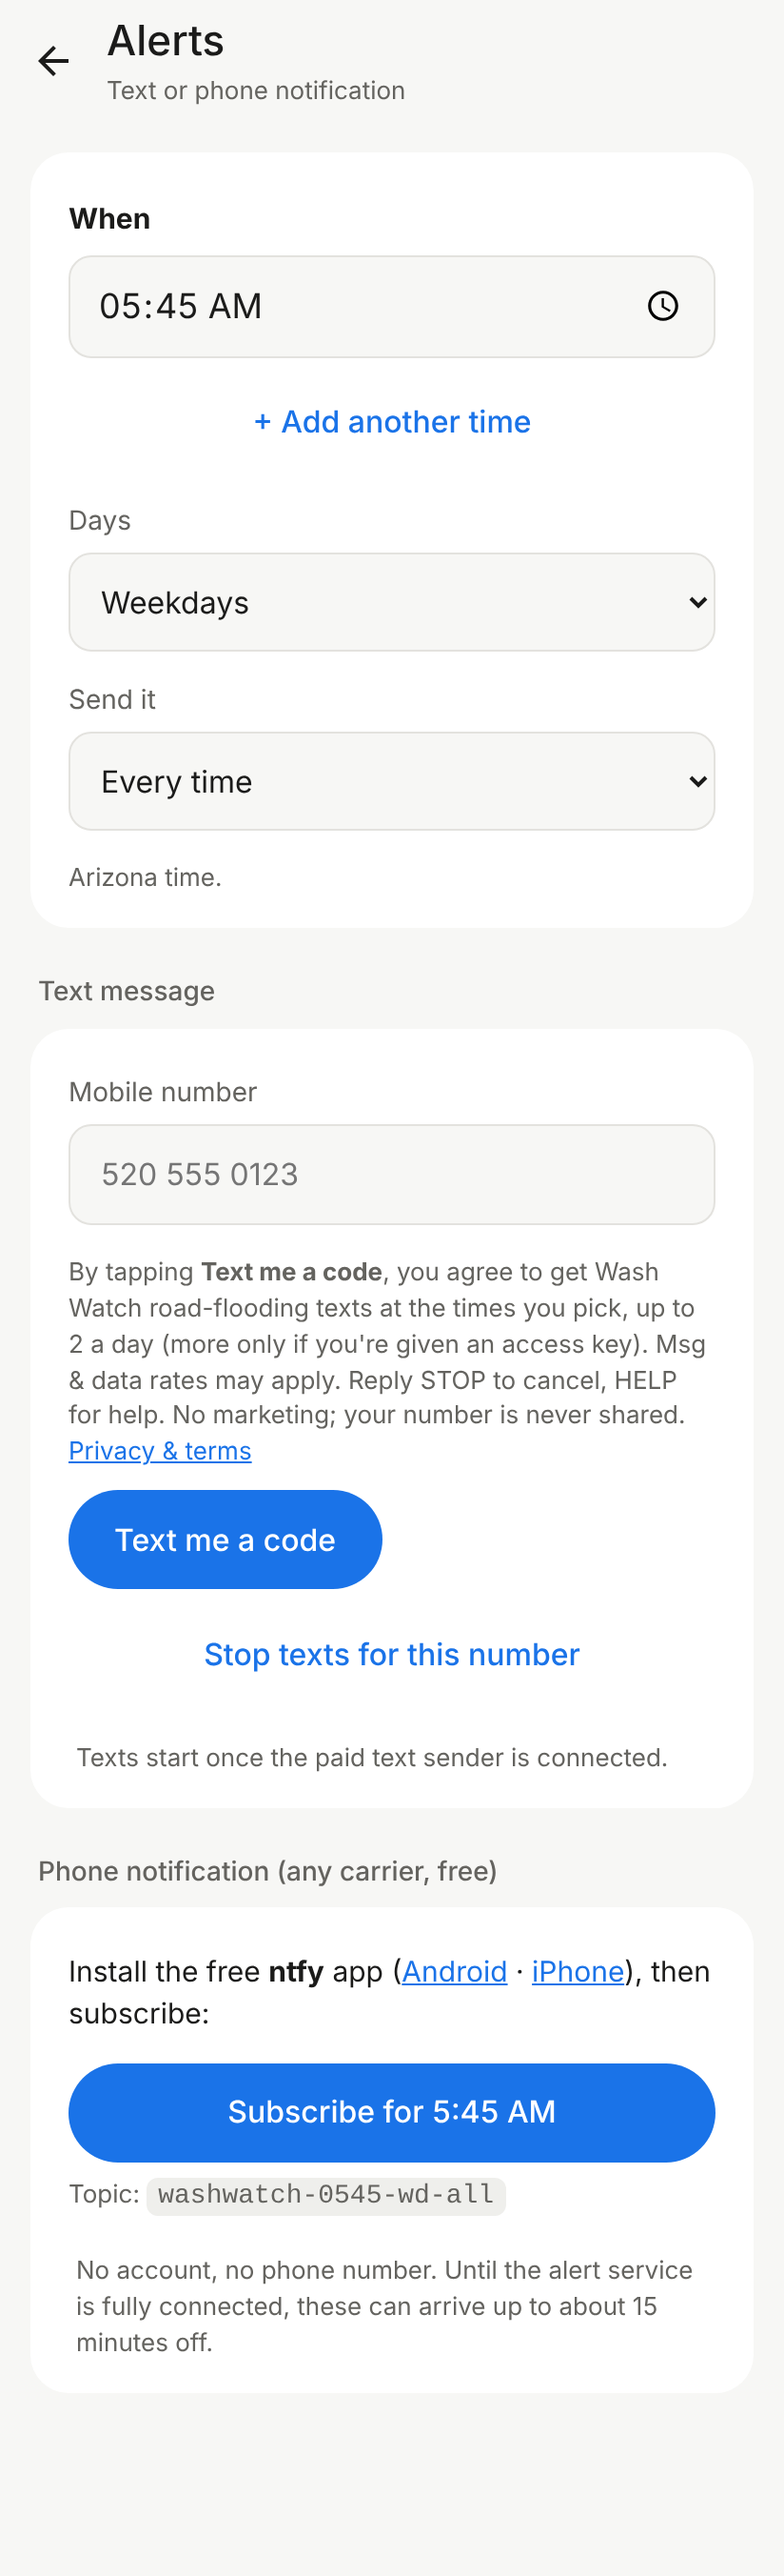
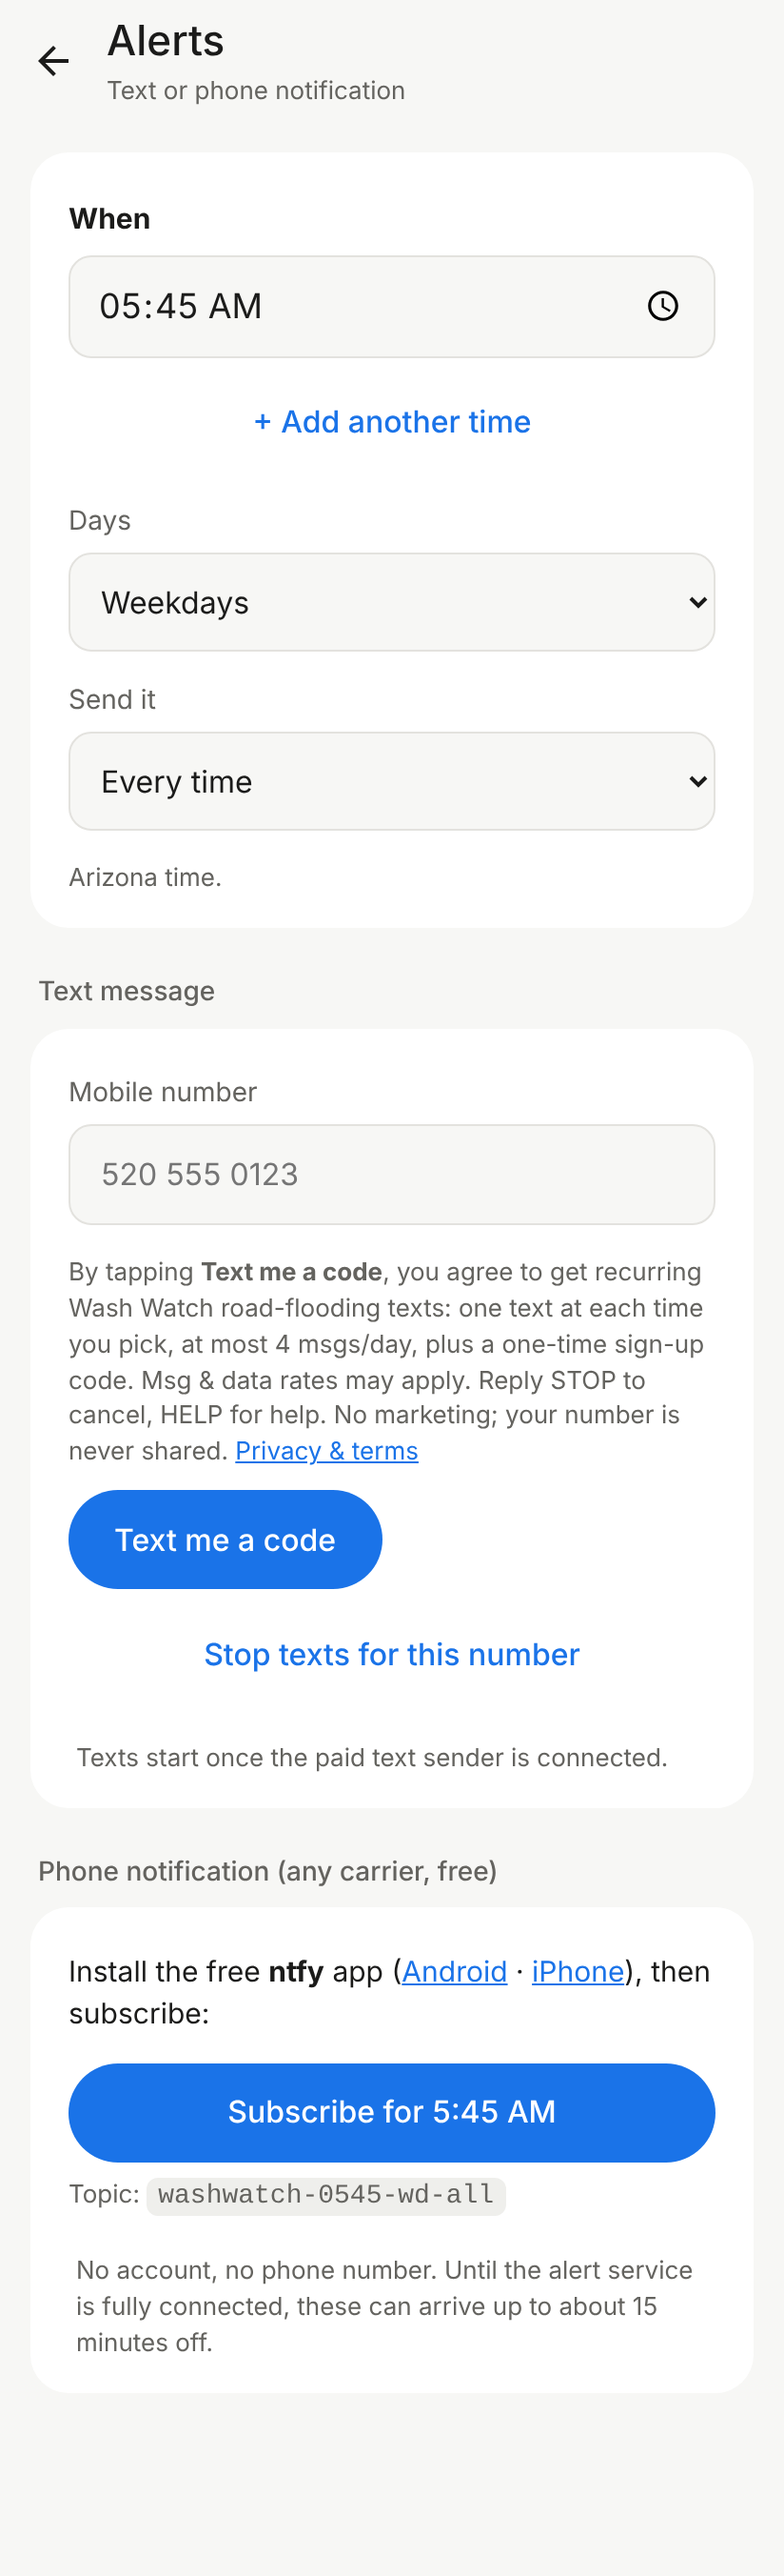
Opt-in and terms state one maximum: at most 4 msgs/day plus a one-time code
Claude-Session: https://claude.ai/code/session_01CfS2a9avUEzEkdexREvSTC

Changed region(s): [[0.091, 0.466, 0.9102, 0.5902]]

diff --git a/public/app.js b/public/app.js
@@ -260,7 +260,7 @@ function alertsScreen() {
       : textFlow.step === 'done'
         ? `<p>Texts are on for ${esc(textFlow.phone)}. A confirmation text is on its way.</p>`
         : `<label class="field">Mobile number<input id="t-phone" type="tel" inputmode="tel" autocomplete="tel" placeholder="520 555 0123" value="${esc(textFlow.phone)}"></label>
-           <p class="consent">By tapping <b>Text me a code</b>, you agree to get Wash Watch road-flooding texts at the times you pick, up to 2 a day (more only if you're given an access key). Msg &amp; data rates may apply. Reply STOP to cancel, HELP for help. No marketing; your number is never shared. <a href="#/privacy">Privacy &amp; terms</a></p>
+           <p class="consent">By tapping <b>Text me a code</b>, you agree to get recurring Wash Watch road-flooding texts: one text at each time you pick, at most 4 msgs/day, plus a one-time sign-up code. Msg &amp; data rates may apply. Reply STOP to cancel, HELP for help. No marketing; your number is never shared. <a href="#/privacy">Privacy &amp; terms</a></p>
            <button type="button" class="btn btn-primary" id="t-signup">Text me a code</button>
            <button type="button" class="btn btn-text" id="t-stop">Stop texts for this number</button>`;
   return `<div class="page">
@@ -323,7 +323,7 @@ function wireAlerts() {
 function privacyScreen() {
   return `<div class="page">
     <h4>What you get</h4>
-    <p>Wash Watch is a free, non-commercial road-flooding guide for Avra Valley, AZ. If you sign up for texts, you get a short message with the current flood risk for the routes between Avra Valley and I-10, at the times you choose: up to 2 texts a day unless you're given an access key. No marketing.</p>
+    <p>Wash Watch is a free, non-commercial road-flooding guide for Avra Valley, AZ. If you sign up for texts, you get a short message with the current flood risk for the routes between Avra Valley and I-10, one text at each time you choose, at most 4 texts a day, plus a one-time sign-up code. No marketing.</p>
     <h4>Signing up and stopping</h4>
     <p>You sign up on the Alerts page and confirm with a 4-digit code we text you. To stop, reply <b>STOP</b> to any message or use <b>Stop texts</b> on the Alerts page. Reply <b>HELP</b> for help. Message and data rates may apply. Carriers aren't liable for delayed or undelivered messages.</p>
     <h4>Your information</h4>
